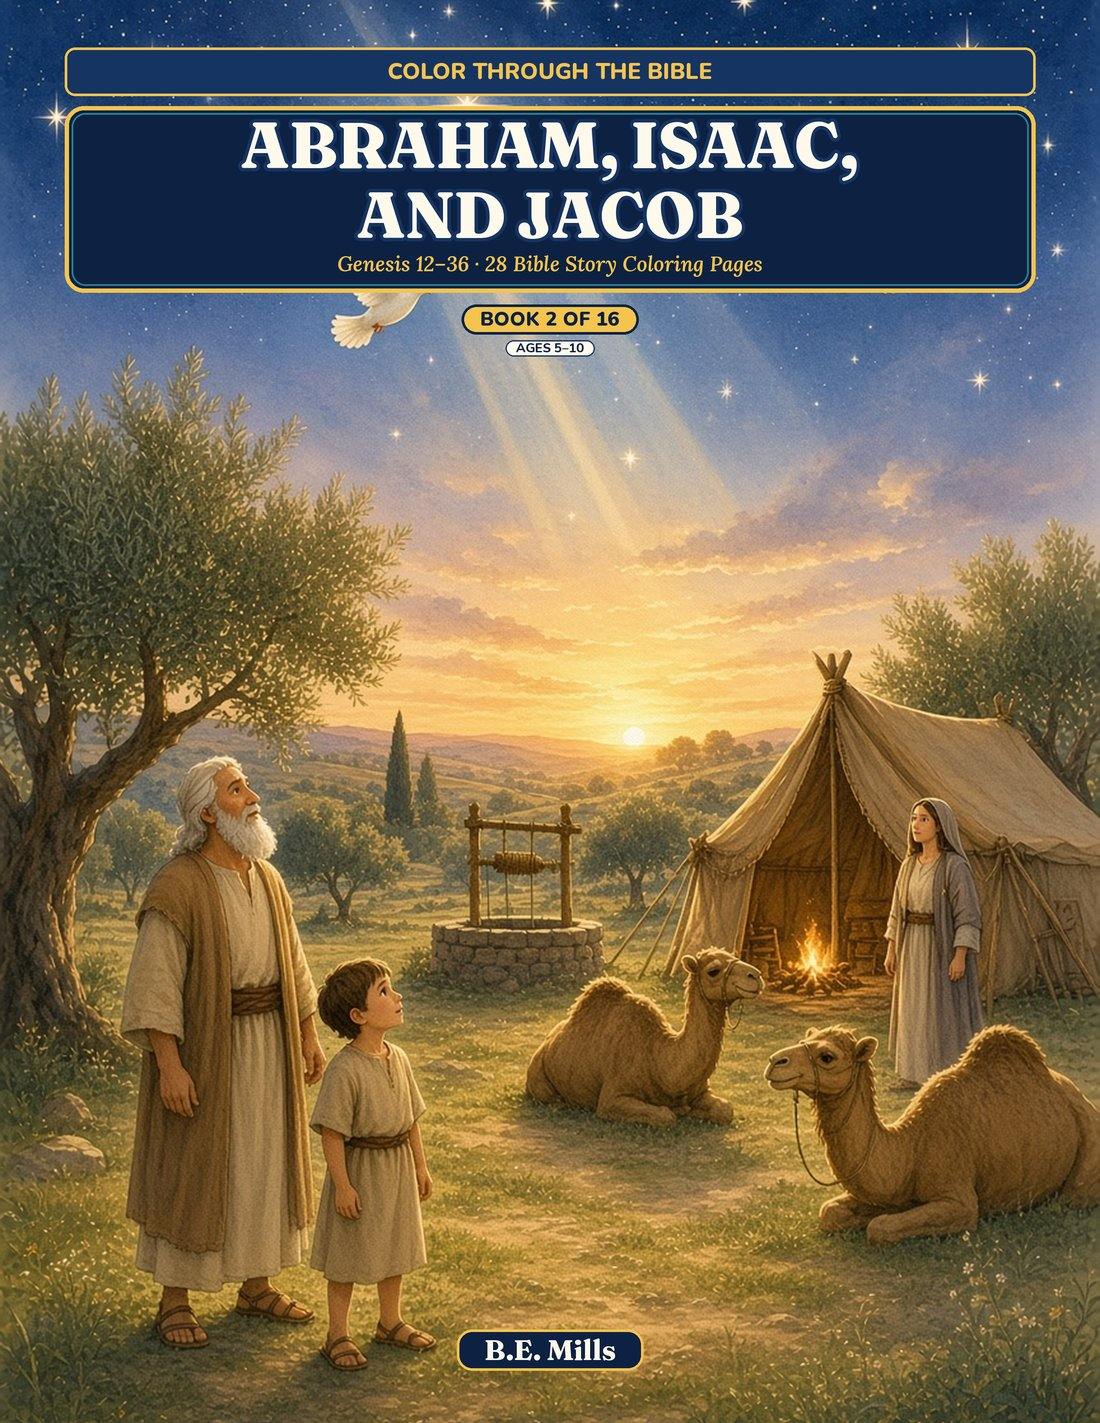
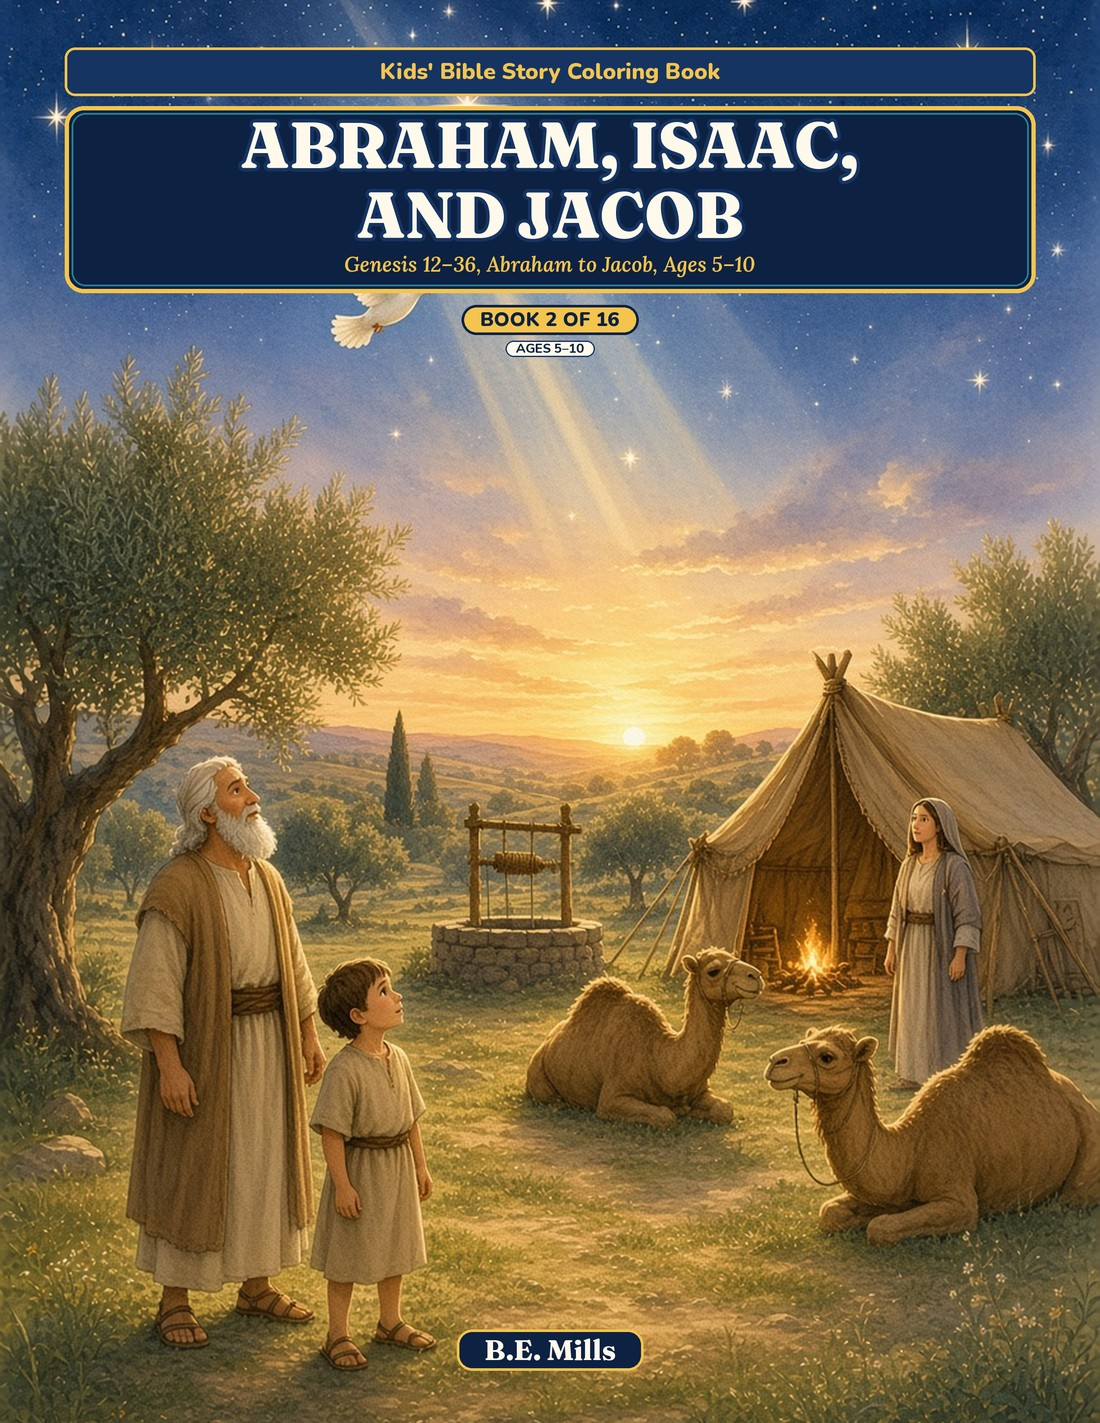
Rename the Bible coloring series to Kids' Bible Story Coloring Book.

diff --git a/index.html b/index.html
@@ -71,16 +71,16 @@
           <div>
             <p class="eyebrow">Category</p>
             <h2>Books</h2>
-            <p class="lede">Color Through the Bible is a 16-book series for kids ages 5–10, by B.E. Mills. Every verse is from the King James Version. Book 1 and Book 2 are printables on Etsy now. The paperbacks, and two truck coloring books for younger kids, are coming soon on Amazon.</p>
+            <p class="lede">Kids' Bible Story Coloring Book is a 16-book series for kids ages 5–10, by B.E. Mills. Every verse is from the King James Version. Book 1 and Book 2 are printables on Etsy now. The paperbacks, and two truck coloring books for younger kids, are coming soon on Amazon.</p>
           </div>
         </div>
 
         <article class="feature" id="book-1">
           <div class="feature-cover">
-            <img src="images/book-bible-cover.jpg" width="1100" height="1423" alt="Front cover of Color Through the Bible Book 1, In the Beginning, by B.E. Mills, with Noah’s ark, a rainbow, and animals in a meadow.">
+            <img src="images/book-bible-cover.jpg" width="1100" height="1423" alt="Front cover of Kids' Bible Story Coloring Book, Book 1, In the Beginning, by B.E. Mills, with Noah’s ark, a rainbow, and animals in a meadow.">
           </div>
           <div class="feature-copy">
-            <p class="eyebrow">Color Through the Bible · Book 1 of 16</p>
+            <p class="eyebrow">Kids' Bible Story Coloring Book · Book 1 of 16</p>
             <h3>In the Beginning</h3>
             <p class="byline">A Bible coloring book for kids ages 5–10 · Genesis 1–12 stories from Creation to Abraham · KJV · B.E. Mills</p>
             <p>Twenty-eight story pages to color, draw-your-own prompts, and word searches. Print at home (US Letter and A4) or wait for the paperback.</p>
@@ -111,10 +111,10 @@
 
         <article class="feature" id="book-2">
           <div class="feature-cover">
-            <img src="images/book-bible-02-cover.jpg" width="1100" height="1423" alt="Front cover of Color Through the Bible Book 2, Abraham, Isaac, and Jacob, by B.E. Mills, with Abraham and a child under the stars, camels, a well, and a tent at sunset.">
+            <img src="images/book-bible-02-cover.jpg" width="1100" height="1423" alt="Front cover of Kids' Bible Story Coloring Book, Book 2, Abraham, Isaac, and Jacob, by B.E. Mills, with Abraham and a child under the stars, camels, a well, and a tent at sunset.">
           </div>
           <div class="feature-copy">
-            <p class="eyebrow">Color Through the Bible · Book 2 of 16</p>
+            <p class="eyebrow">Kids' Bible Story Coloring Book · Book 2 of 16</p>
             <h3>Abraham, Isaac, and Jacob</h3>
             <p class="byline">A Bible coloring book for kids ages 5–10 · Genesis 12–36 stories from Abraham to Jacob · KJV · B.E. Mills</p>
             <p>Twenty-eight story pages to color, draw-your-own prompts, a maze, and word searches. Print at home (US Letter and A4) or wait for the paperback.</p>
